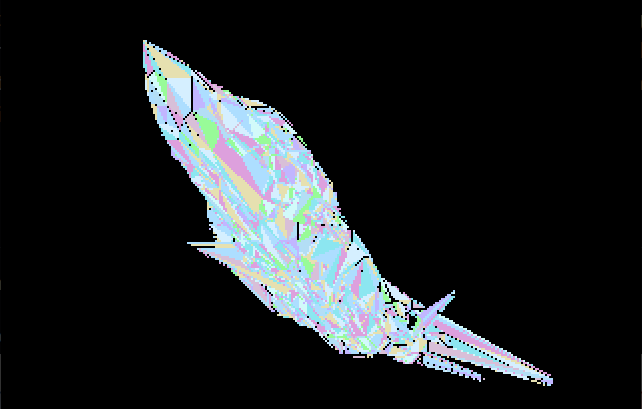
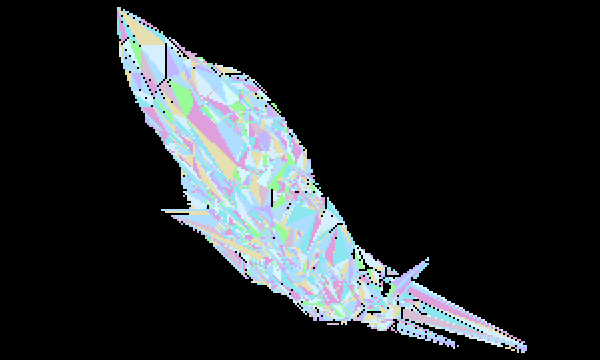
crop crop

diff --git a/README.md b/README.md
@@ -15,7 +15,7 @@ MicroHard Flight Simulator X is a student project in the course TDT4295 Computer
 A100T FPGA and a SiliconLabs EFM32 MCU. The system outlined here is the graphics processing system residing on the FPGA, and deals with all the graphical processing and effects needed to visualize the flight simulator. This part of the project is the culmination of a few months worth of hard work by Morten sørensen and Andreas V. Jonsterhaug. The system is written in SystemVerilog with Verilator testbenches for each module in the system. The other parts of the system, that is the PCB and the MCU source code can be found elsewhere in the MH Flight Simulator X org: ![GitHub Page](https://github.com/MH-Flight-Simulator-X)
 
 <div align="center">
-  <img src="https://github.com/MH-Flight-Simulator-X/FPGA-src/blob/main/imgs/flight_sim.png" alt="Cool photo" height="600"/>
+  <img src="https://github.com/MH-Flight-Simulator-X/FPGA-src/blob/main/imgs/flight_sim.png" alt="Cool photo" width="600"/>
 </div>
 
 ## Overview 
